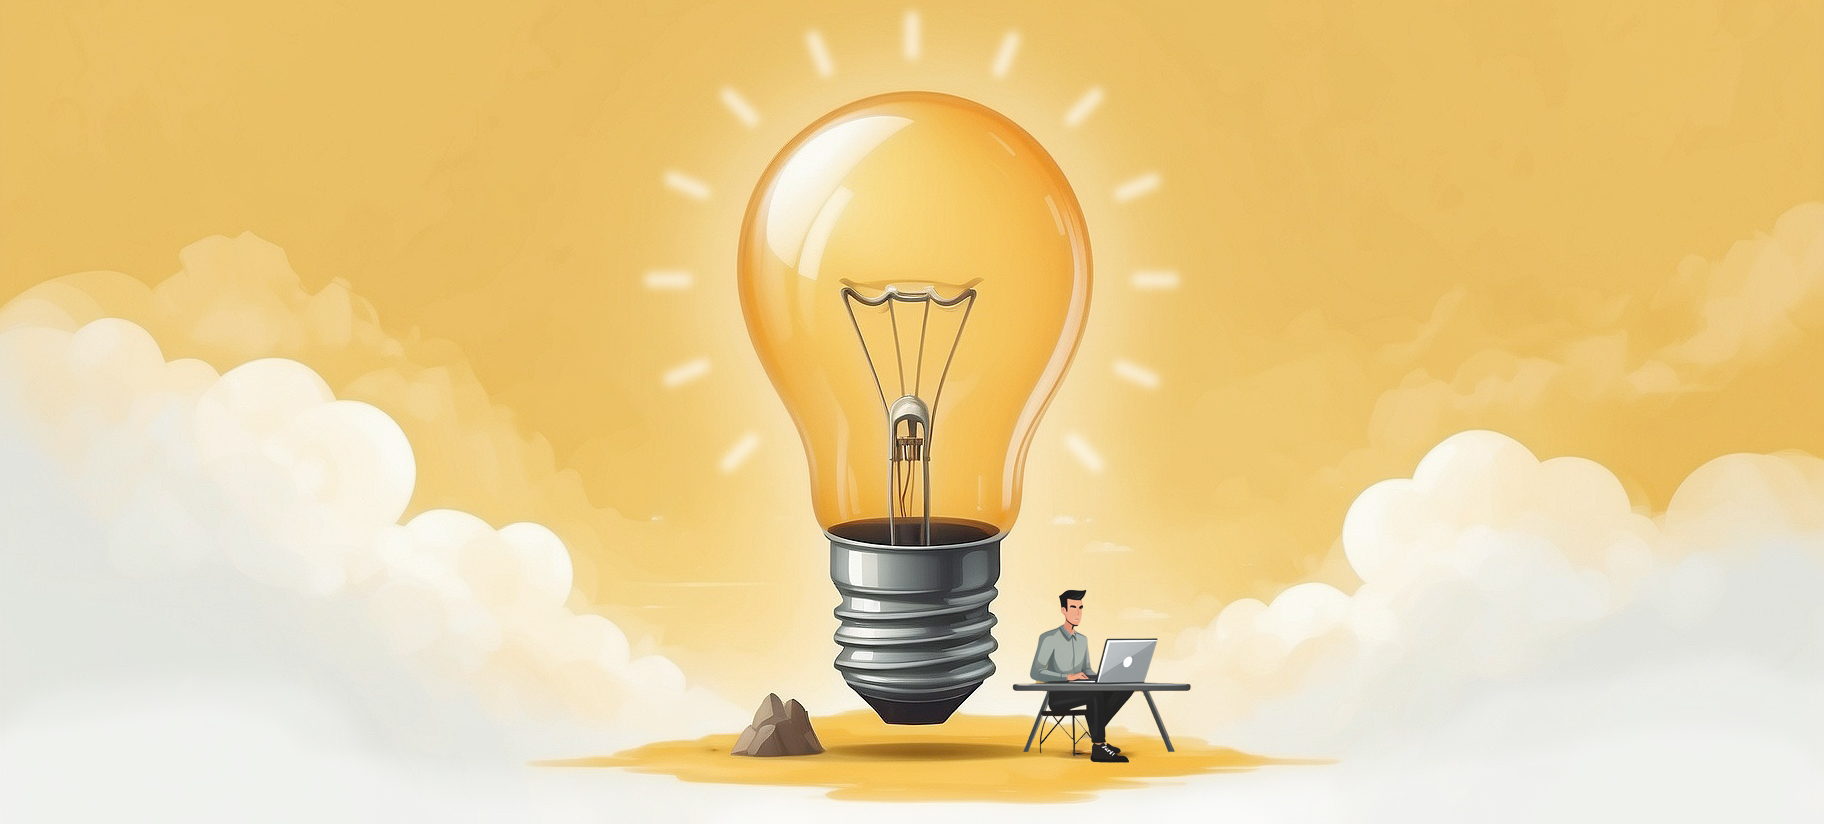
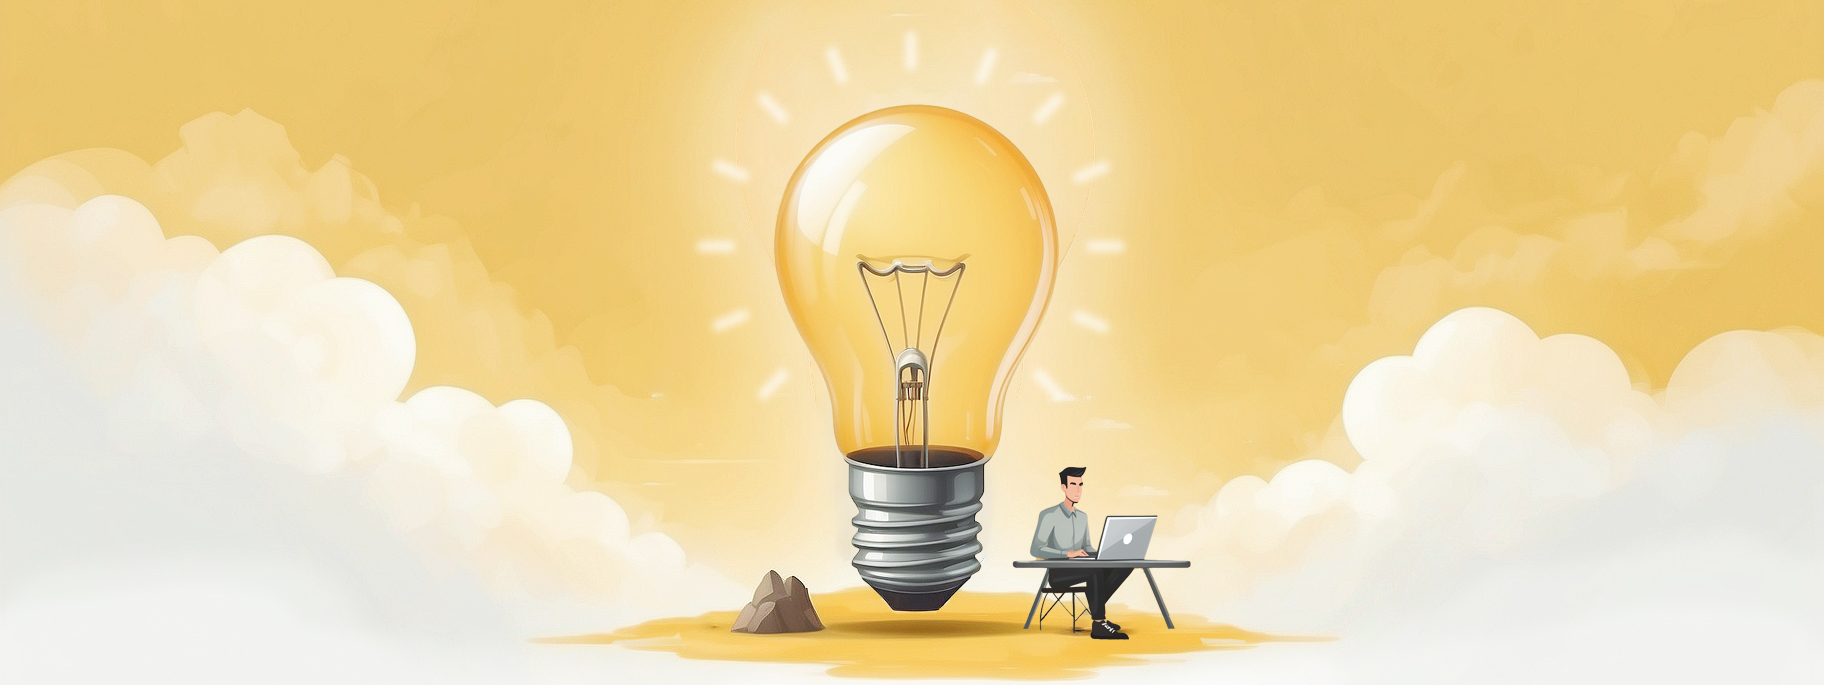
26-12-2023h

diff --git a/idee.html b/idee.html
@@ -49,7 +49,7 @@
           srcset="images/header_image_medium_sv.jpg"
         />
         <img
-          src="images/header_image_medium.jpg"
+          src="images/interior_header_two.jpg"
           alt="Header Banner"
           class="header-image"
         />

diff --git a/idee_overzicht.html b/idee_overzicht.html
@@ -49,7 +49,7 @@
           srcset="images/header_image_medium_sv.jpg"
         />
         <img
-          src="images/header_image_medium.jpg"
+          src="images/interior_header_two.jpg"
           alt="Header Banner"
           class="header-image"
         />
